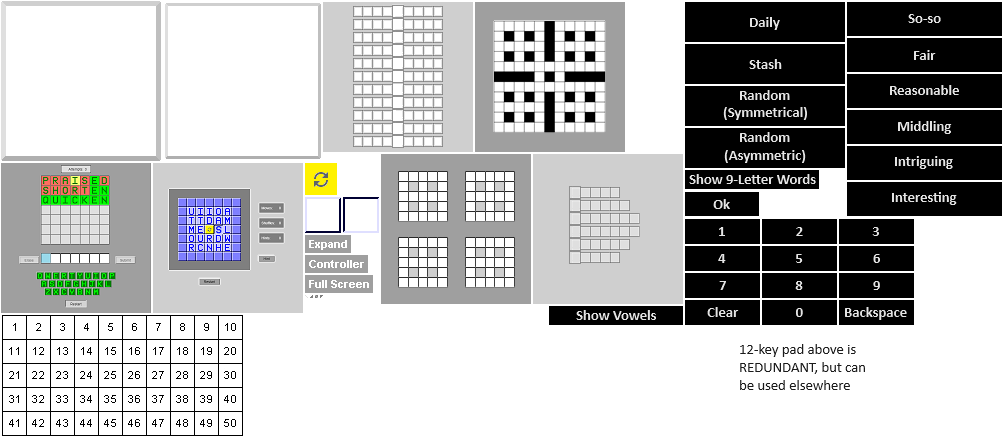
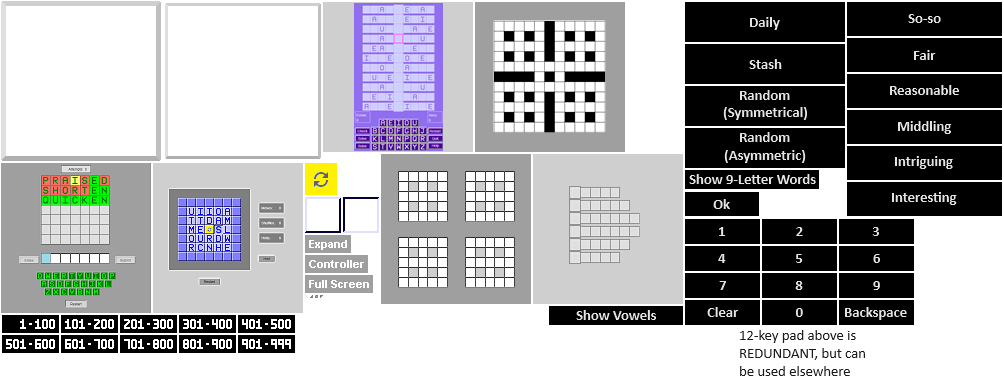
Add files via upload

diff --git a/lexitrix/components.js b/lexitrix/components.js
@@ -4,6 +4,11 @@
 
 var LexiScape, LexiGraphics, LexiText, LexiRandomizer, Controller;			//library
 
+//-----------------------------------
+//---------- DATA -------------------
+
+var Solutions;		//crossle
+
 //------------------------------------
 //---------- TOOLS -------------------
 
@@ -12,7 +17,7 @@ var LexiScape, LexiGraphics, LexiText, LexiRandomizer, Controller;			//library
 
 var GamePushButtonImages;
 var ShufflePushButtonImage, CracklePushButtonImage, SpindlePushButtonImage, JigglePushButtonImage, CrosslePushButtonImage, BundlePushButtonImage;
-var ShufflePushButton, CracklePushButton, SpindlePushButton, JigglePushButton, CrosslePushButton, BundlePushButton;
+var ShufflePushButton, CracklePushButton, CrosslePushButton, BundlePushButton, SpindlePushButton, SaddlePushButton;
 var ShallowCornerImages, RaisedCornerImages, RoundedCornerImages, CrossleButtonCornerImages;
 var HintButton, SolveButton, RestartButton, QuitButton, InstructionsButton;																		//common buttons
 var IconCornerImages, ExpandIconImage, ExpandIcon, ControllerIconImage, ControllerIcon, FullScreenIconImage, FullScreenIcon;		//icons
@@ -23,6 +28,7 @@ var MobileControlImages, MobileControlEdgeImages, MobileController;  //UNLOGGED
 
 var ShuffleTileImages, ShuffleLetterImages;
 var UpperCaseLetterImages, MediumDigitImages;
+var KeyLetterImages, PressedLetterImages;	//UNLOGGED
 
 //---------------------------------
 //---------- FX -------------------
@@ -34,8 +40,9 @@ var UpperCaseLetterImages, MediumDigitImages;
 //---------- VIEWS -------------------
 
 var MainView;
-var CrackleView, ShuffleView, SpindleView, JiggleView, BundleView;
+var CrackleView, ShuffleView, JiggleView, BundleView;
 var CrossleView, CrossleOptionsView, CrossleInstructionsView;
+var SpindleView, SpindleOptionsView, SpindleHelpView;
 
 //----------------------------------------------
 //---------- LEXI COMPONENTS -------------------
@@ -73,6 +80,10 @@ LexiComponents.prototype = {
 		this.SetViews();
 	},
 	SetData() {
+
+		//UNLOGGED
+
+		Solutions = Solutions0.concat(Solutions100);
 	},
 	CreateCoreObjects() {
 	},
@@ -120,6 +131,8 @@ LexiComponents.prototype = {
 		ShuffleLetterImages = new GenieImage();
 		UpperCaseLetterImages = new GenieImage();
 		MediumDigitImages = new GenieImage();
+		KeyLetterImages = new GenieImage();
+		PressedLetterImages = new GenieImage();
 	},
 	SetImages() {
 
@@ -129,6 +142,8 @@ LexiComponents.prototype = {
 		ShuffleLetterImages.Set(this.Screen, ImageManager.Pics[IMAGeINDEX.IMAGES], SHUFFLeLETTErIMAGEs);
 		UpperCaseLetterImages.Set(this.Screen, ImageManager.Pics[IMAGeINDEX.GENIeIMAGES], MEDIUmLETTErIMAGES);
 		MediumDigitImages.Set(this.Screen, ImageManager.Pics[IMAGeINDEX.GENIeIMAGES], MEDIUmDIGITsIMAGE);
+		KeyLetterImages.Set(this.Screen, ImageManager.Pics[IMAGeINDEX.IMAGES], KEyLETTErIMAGES);
+		PressedLetterImages.Set(this.Screen, ImageManager.Pics[IMAGeINDEX.IMAGES], KEyPRESSEdIMAGES);
 	},
 	CreateFX() {
 	},
@@ -146,12 +161,15 @@ LexiComponents.prototype = {
 
 		CrackleView = new GenieCrackleView();
 		ShuffleView = new GenieShuffleView();
-		SpindleView = new GenieSpindleView();
 		JiggleView  = new GenieJiggleView();
 
 		CrossleView  = new LexiCrossleView();
 		CrossleOptionsView = new LexiCrossleOptionsView();
 		CrossleInstructionsView = new LexiCrossleInstructionView();
+
+		SpindleView = new LexiSpindleView();
+		SpindleOptionsView = new LexiSpindleOptionsView();
+		SpindleHelpView = new LexiSpindleHelpView();
 
 		BundleView  = new GenieBundleView();
 	},
@@ -163,12 +181,15 @@ LexiComponents.prototype = {
 
 		CrackleView.Set(this.Interface.PrimeScape, CRACKLE, this.GraphicsTool, this.TextWriter, this.Randomizer);
 		ShuffleView.Set(this.Interface.PrimeScape, SHUFFLE, this.GraphicsTool, this.TextWriter, this.Randomizer);
-		SpindleView.Set(this.Interface.PrimeScape, SPINDLE, this.GraphicsTool, this.TextWriter, this.Randomizer);
 		JiggleView.Set(this.Interface.PrimeScape, JIGGLE, this.GraphicsTool, this.TextWriter, this.Randomizer);
 
 		CrossleView.Set(this.Interface.PrimeScape, CROSSLE, this.GraphicsTool, this.TextWriter, this.Randomizer);
 		CrossleOptionsView.Set(this.Interface.PrimeScape, CROSSLE.OPTIONS, this.TextWriter);
 		CrossleInstructionsView.Set(this.Interface.PrimeScape, CROSSLE.INSTRUCTIONS, CrossleView, this.GraphicsTool, this.TextWriter);
+
+		SpindleView.Set(this.Interface.PrimeScape, SPINDLE, this.GraphicsTool, this.TextWriter, this.Randomizer);
+		SpindleOptionsView.Set(this.Interface.PrimeScape, SPINDLE.OPTIONS, this.TextWriter);
+		SpindleHelpView.Set(this.Interface.PrimeScape, SPINDLE.HELP, SpindleView, this.GraphicsTool, this.TextWriter);
 
 		BundleView.Set(this.Interface.PrimeScape, BUNDLE, this.GraphicsTool, this.TextWriter, this.Randomizer);
 	}

diff --git a/lexitrix/data.js b/lexitrix/data.js
@@ -20,10 +20,13 @@ var IMAGeINDEX = {
 //-------------------------------------
 //---------- SOUNDS -------------------
 
-//-------------------------------------
-//---------- CANVAS -------------------
+//----------------------------------------
+//---------- CORE DATA -------------------
 
 var SCREEN = { WIDTH: 360, HEIGHT: 600 };
+var LEXI = { SHAMROCK: "rgb(000,143,063)", JADE: "rgb(095,207,063)", LIME: "rgb(191,255,047)", SCARLET: "rgb(255,000,000)",								//SADDLE
+				 MAROON: "rgb(159,047,000)", RED: "rgb(207,000,000)", ORANGE: "rgb(239,095,015)", GOLD: "rgb(255,191,031)", YELLOW: "rgb(255,239,111)"
+};
 
 //---------------------------------------
 //---------- CONTROLS -------------------
@@ -32,18 +35,18 @@ var SCREEN = { WIDTH: 360, HEIGHT: 600 };
 var LEXiPUShBUTTOnIMAGEs = { L: 1, T: 1, W: 322, H: 160, O: 2, C: 2, R: 1, PATCH: { W: 160, H: 160 } };
 var CRACKLePUShBUTTOnIMAGE = { L: 1, T: 163, W: 150, H: 150 };
 var SHUFFLePUShBUTTOnIMAGE = { L: 153, T: 163, W: 150, H: 150 };
-var SPINDLePUShBUTTOnIMAGE = { L: 323, T: 2, W: 150, H: 150 };
-var JIGGLePUShBUTTOnIMAGE = { L: 381, T: 154, W: 150, H: 150 };
 var CROSSLePUShBUTTOnIMAGE = { L: 475, T: 2, W: 150, H: 150 };
 var BUNDLePUShBUTTOnIMAGE = { L: 533, T: 154, W: 150, H: 150 };
+var SPINDLePUShBUTTOnIMAGE = { L: 323, T: 2, W: 150, H: 150 };
+var SADDLePUShBUTTOnIMAGE = { L: 381, T: 154, W: 150, H: 150 };
 
 //Push buttons
-var CRACKLePUShBUTTON = { L: 10, T: 10, W: 160, H: 160, LW: 5, BACKGROUND: PAINT.SKY };
-var SHUFFLePUShBUTTON = { L: 190, T: 10, W: 160, H: 160, LW: 5, BACKGROUND: PAINT.SKY };
-var CROSSLePUShBUTTON = { L: 10, T: 210, W: 160, H: 160, LW: 5, BACKGROUND: PAINT.SKY };
-var JIGGLePUShBUTTON = { L: 190, T: 210, W: 160, H: 160, LW: 5, BACKGROUND: PAINT.SKY };
-var SPINDLePUShBUTTON = { L: 10, T: 410, W: 160, H: 160, LW: 5, BACKGROUND: PAINT.SKY };
-var BUNDLePUShBUTTON = { L: 190, T: 410, W: 160, H: 160, LW: 5, BACKGROUND: PAINT.SKY };
+var CRACKLePUShBUTTON = { L:  10, T:  10, W: 160, H: 160, LW: 5, BACKGROUND: PAINT.SKY };
+var SHUFFLePUShBUTTON = { L: 190, T:  10, W: 160, H: 160, LW: 5, BACKGROUND: PAINT.SKY };
+var CROSSLePUShBUTTON = { L:  10, T: 210, W: 160, H: 160, LW: 5, BACKGROUND: PAINT.SKY };
+var BUNDLePUShBUTTON =  { L: 190, T: 210, W: 160, H: 160, LW: 5, BACKGROUND: PAINT.SKY };
+var SPINDLePUShBUTTON = { L:  10, T: 410, W: 160, H: 160, LW: 5, BACKGROUND: PAINT.SKY };
+var SADDLePUShBUTTON =  { L: 190, T: 410, W: 160, H: 160, LW: 5, BACKGROUND: PAINT.SKY };
 
 //Buttons
 var HINtBUTTON = { L: -1, T: -1, W: 60, H: 25, LW: 3, LABEL: "Hint", COLOUR: GREY.ASH, BACKGROUND: GREY.ASH, STYLE: BUTTON.STYLE.ROUNDED };
@@ -52,7 +55,6 @@ var RESTARtBUTTON = { L: -1, T: -1, W: 60, H: 25, LW: 3, LABEL: "Restart", COLOU
 var QUItBUTTON = { L: -1, T: -1, W: 60, H: 25, LW: 3, LABEL: "Quit", COLOUR: GREY.ASH, BACKGROUND: GREY.ASH, STYLE: BUTTON.STYLE.ROUNDED };
 var INSTRUCTIONsBUTTON = { L: -1, T: -1, W: 120, H: 25, LW: 3, LABEL: "Instructions", COLOUR: GREY.ASH, STYLE: BUTTON.STYLE.RAISED };
 var CROSSLeBUTTOnCORNErIMAGEs = { L: 305, T: 295, W: 18, H: 3, O: 2, R: 1, C: 4, PATCH: { W: 3, H: 3 } };
-
 
 //Icons
 var EXPANdICOnIMAGE = { L: 305, T: 235, W: 46, H: 18 };
@@ -70,7 +72,9 @@ var LEXiCONTROLLER = { L: 368, T: 480, W: 272, H: 272, KEY: { O: 4 } };
 var SHUFFLeLETTErIMAGEs = { L: 1, T: 1, W: 308, H: 60, O: 4, C: 13, R: 2, PATCH: { W: 20, H: 28 } };
 var SHUFFLeTILEIMAGEs = { L: 1, T: 63, W: 74, H: 36, O: 2, C: 2, R: 1, PATCH: { W: 36, H: 36 } };
 var MEDIUmLETTErIMAGES = { L: 1, T: 235, W: 154, H: 30, O: 2, C: 13, R: 2, PATCH: { W: 10, H: 14 } };
+var KEyBUTTOnIMAGES = { L: 490, T: 131, W: 66, H: 32, O: 2, C: 2, R: 1, PATCH: { W: 32, H: 32 } };
+var KEyLETTErIMAGES = { L: 368, T: 187, W: 231, H: 45, O: 3, C: 13, R: 2, PATCH: { W: 15, H: 21 } };
+var KEyPRESSEdIMAGES = { L: 362, T: 234, W: 154, H: 30, O: 2, C: 13, R: 2, PATCH: { W: 10, H: 14 } };
 
 //---------------------------------
 //---------- FX -------------------
-
